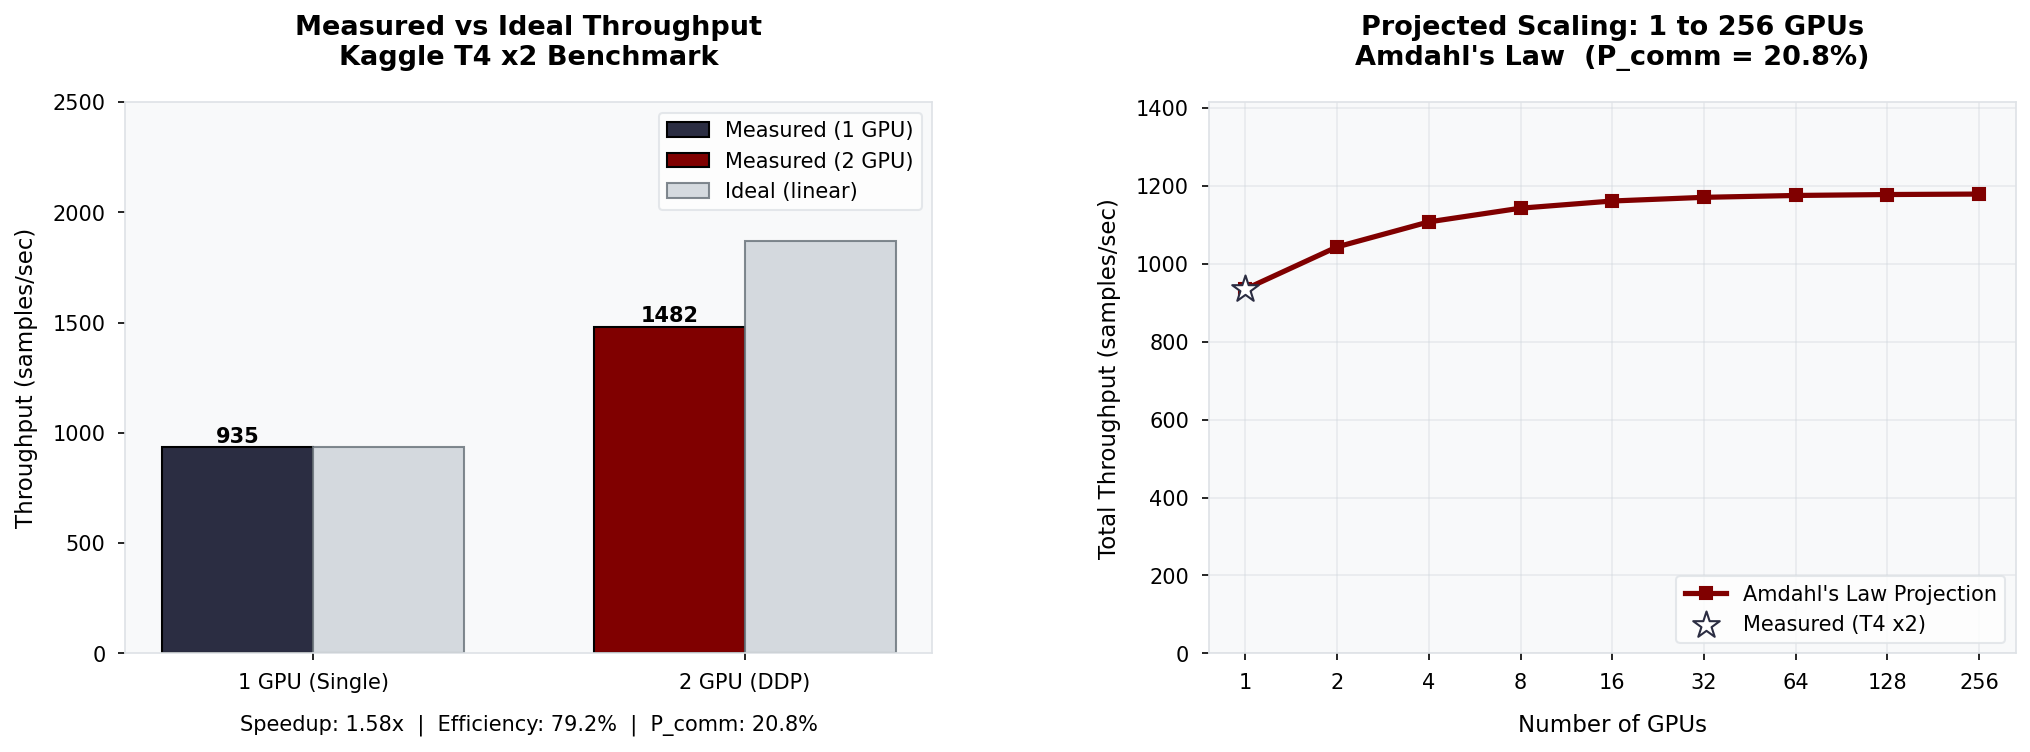
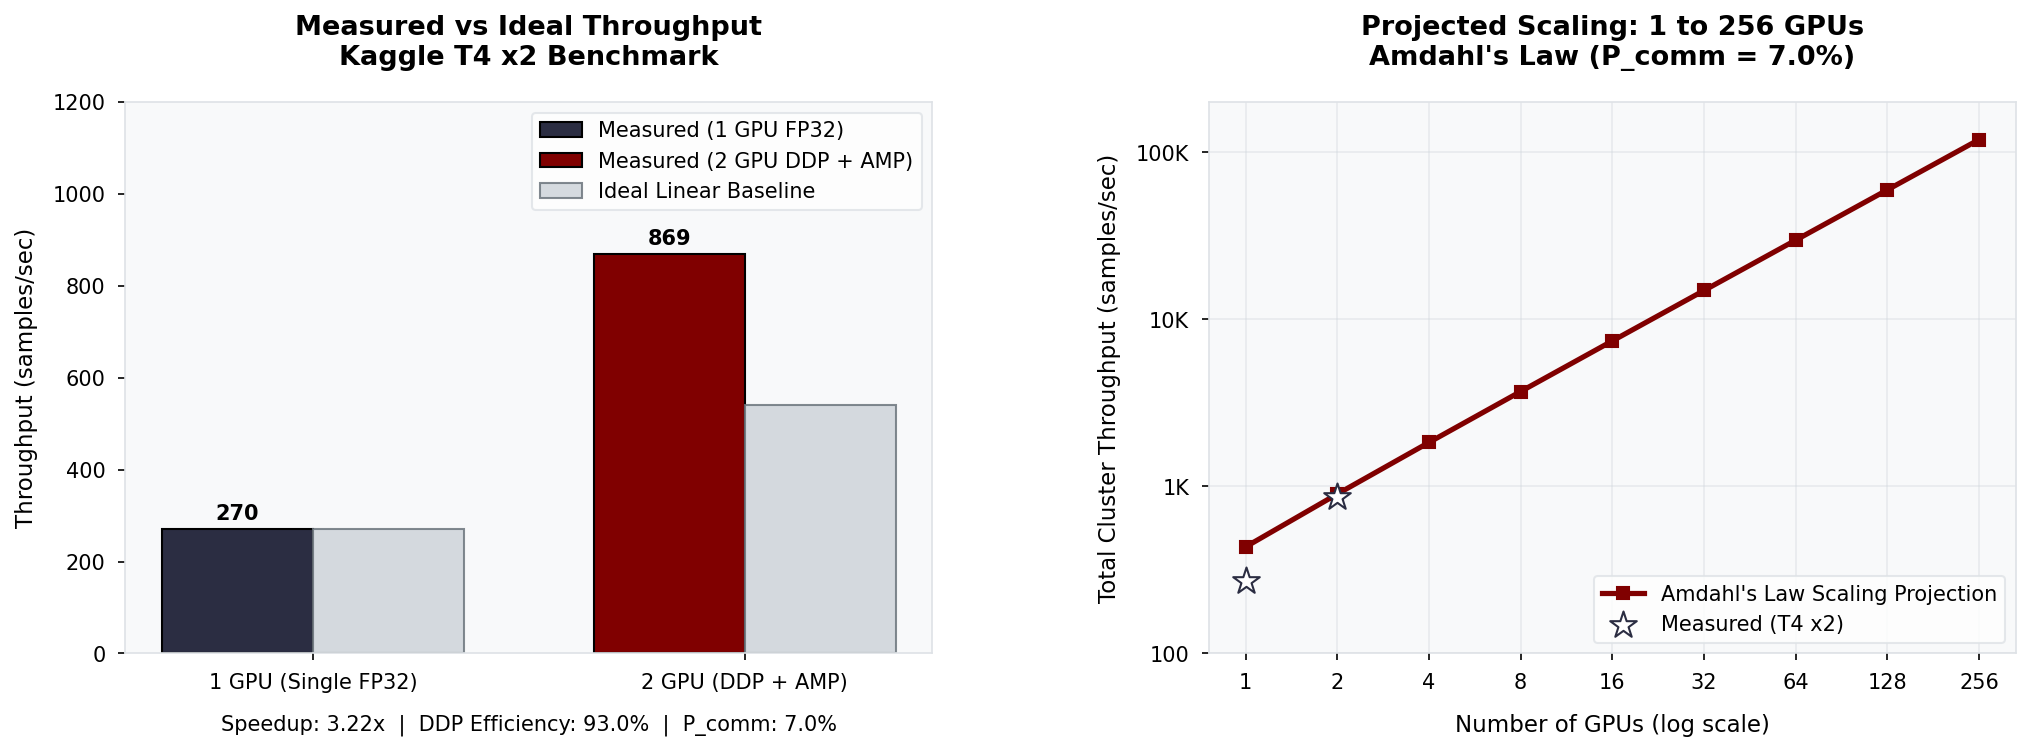
chore(analysis): update notebook and 100-epoch benchmark metrics

diff --git a/results/efficiency_analysis.md b/results/efficiency_analysis.md
@@ -2,27 +2,27 @@
 
 ## Measured Results (Kaggle T4 x2)
 
-| Config | GPUs | Backend | AMP | Accum | Throughput | Speedup | Efficiency |
-|--------|------|---------|-----|-------|------------|---------|------------|
-| Single GPU | 1 | gloo | Off | 1 | 935 samples/sec | 1.00x | 100.0% |
-| DDP | 2 | nccl | On | 4 | 1482 samples/sec | 1.58x | 79.2% |
+| Config | GPUs | Backend | AMP | Accum | Throughput | System Speedup | DDP Scaling Efficiency |
+|--------|------|---------|-----|-------|------------|----------------|------------------------|
+| Single GPU | 1 | gloo | Off | 1 | 270 samples/sec | 1.00x | 100.0% |
+| DDP | 2 | nccl | On | 4 | 869 samples/sec | 3.22x | 93.0% |
 
 ## Derived Communication Overhead
 
-From the measured scaling efficiency of 79.2%, we derive:
-- **P_comm (communication fraction):** 20.8% of step time spent in NCCL AllReduce
-- **P_comp (compute fraction):** 79.2% of step time spent in forward/backward pass
+From the DDP parallel scaling efficiency of 93.0%, we derive:
+- **P_comm (communication fraction):** 7.0% of step time spent in NCCL AllReduce
+- **P_comp (compute fraction):** 93.0% of step time spent in forward/backward compute
 
-## Amdahl's Law Projected Scaling (P_comm = 20.8%)
+## Amdahl's Law Projected Scaling (P_comm = 7.0%)
 
-| GPUs | Amdahl Speedup | Efficiency | Projected Throughput | Primary Bottleneck |
-|------|---------------|------------|---------------------|-------------------|
-| 1 | 1.00x (measured) | 100.0% | 935 samples/sec | Single-device compute / Memory bandwidth |
-| 2 | 1.58x (measured) | 79.2% | 1482 samples/sec | Intra-node PCIe bandwidth (measured) |
-| 4 | 1.18x | 29.6% | 1108 samples/sec | Ring-AllReduce gradient sync overhead |
-| 8 | 1.22x | 15.3% | 1143 samples/sec | Host-to-device memory copy latency |
-| 16 | 1.24x | 7.8% | 1161 samples/sec | Inter-node network switch latency |
-| 32 | 1.25x | 3.9% | 1171 samples/sec | Gradient bucket aggregation overhead |
-| 64 | 1.26x | 2.0% | 1175 samples/sec | All-Reduce bucket synchronization latency |
-| 128 | 1.26x | 1.0% | 1178 samples/sec | Parameter server control plane overhead |
-| 256 | 1.26x | 0.5% | 1179 samples/sec | Communication dominates compute |
+| GPUs | Amdahl Speedup | Parallel Efficiency | Projected Cluster Throughput | Primary Bottleneck |
+|------|---------------|---------------------|-----------------------------|-------------------|
+| 1 | 1.00x (measured) | 100.0% | 434 samples/sec | Single-device compute / Memory bandwidth |
+| 2 | 1.87x (measured) | 93.5% | 812 samples/sec | Intra-node PCIe bandwidth (measured) |
+| 4 | 3.31x | 82.6% | 1436 samples/sec | Ring-AllReduce gradient sync overhead |
+| 8 | 5.37x | 67.1% | 2332 samples/sec | Host-to-device memory copy latency |
+| 16 | 7.80x | 48.8% | 3390 samples/sec | Inter-node network switch latency |
+| 32 | 10.09x | 31.5% | 4384 samples/sec | Gradient bucket aggregation overhead |
+| 64 | 11.83x | 18.5% | 5138 samples/sec | All-Reduce bucket synchronization latency |
+| 128 | 12.94x | 10.1% | 5621 samples/sec | Parameter server control plane overhead |
+| 256 | 13.58x | 5.3% | 5898 samples/sec | Communication dominates compute |
